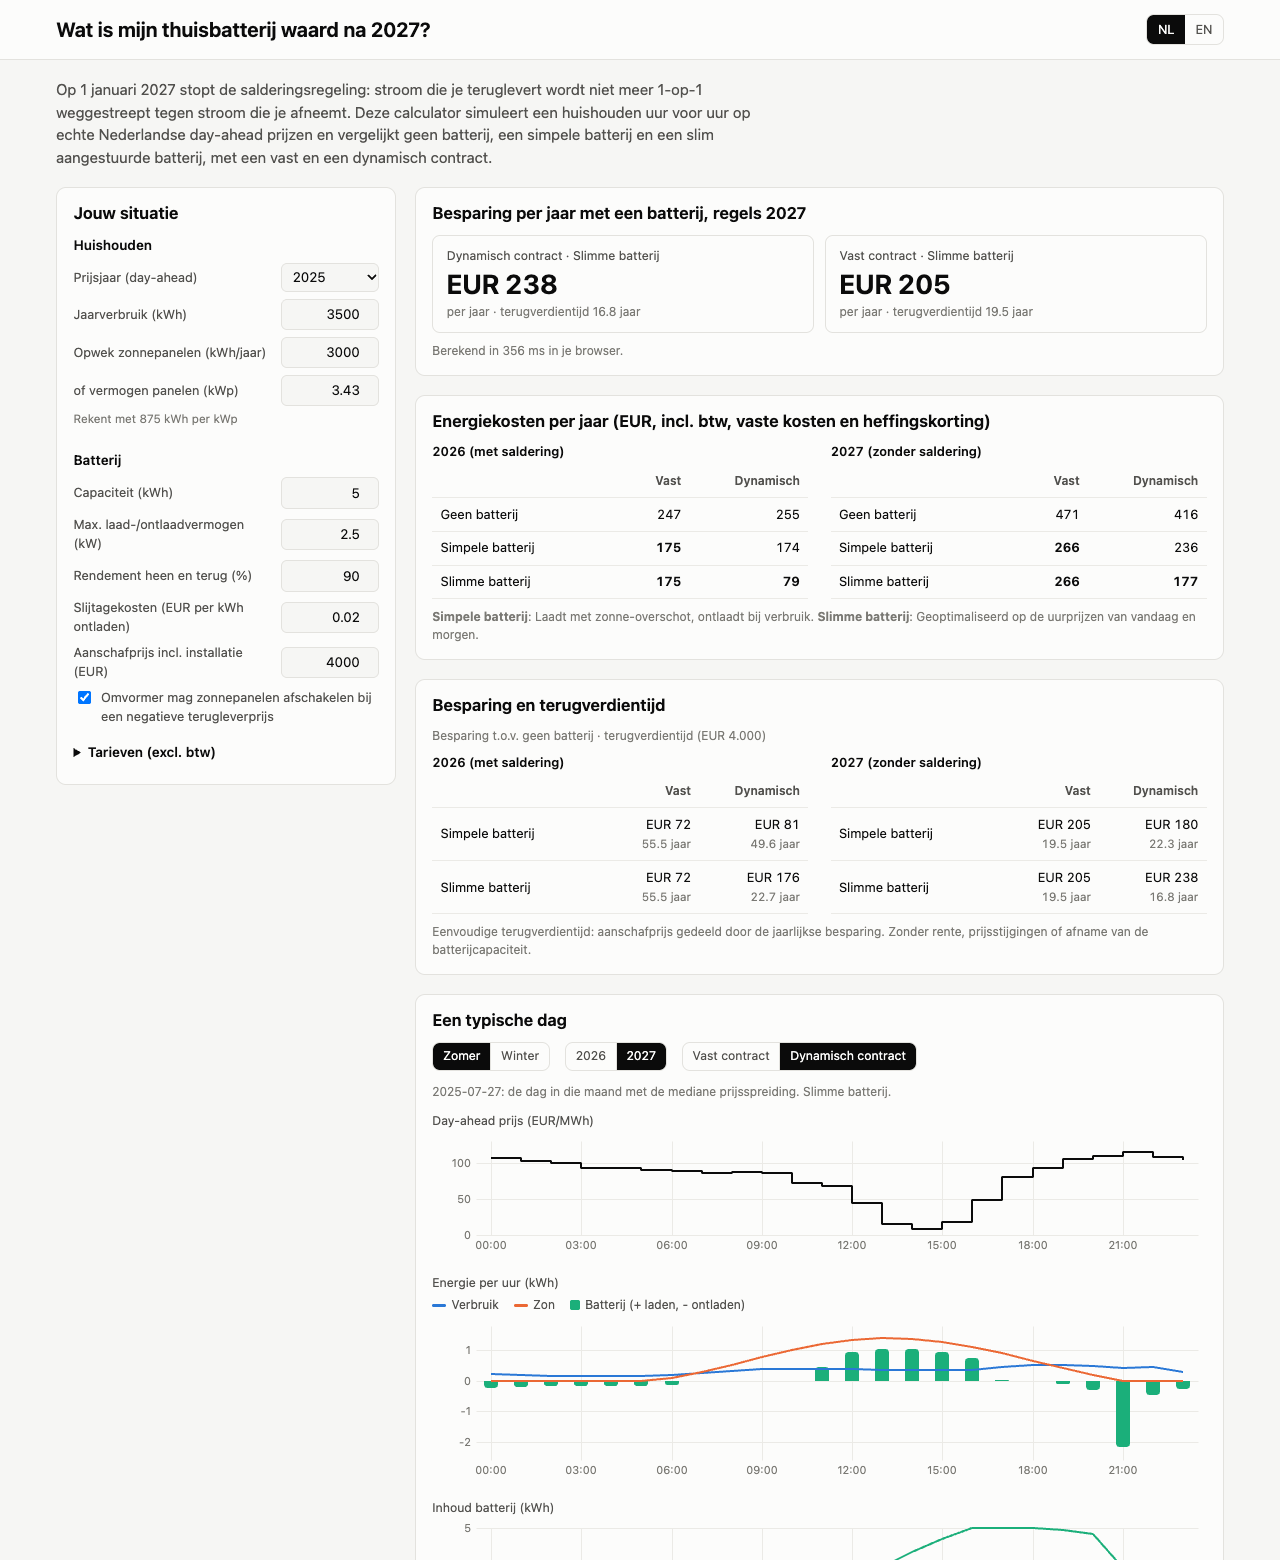
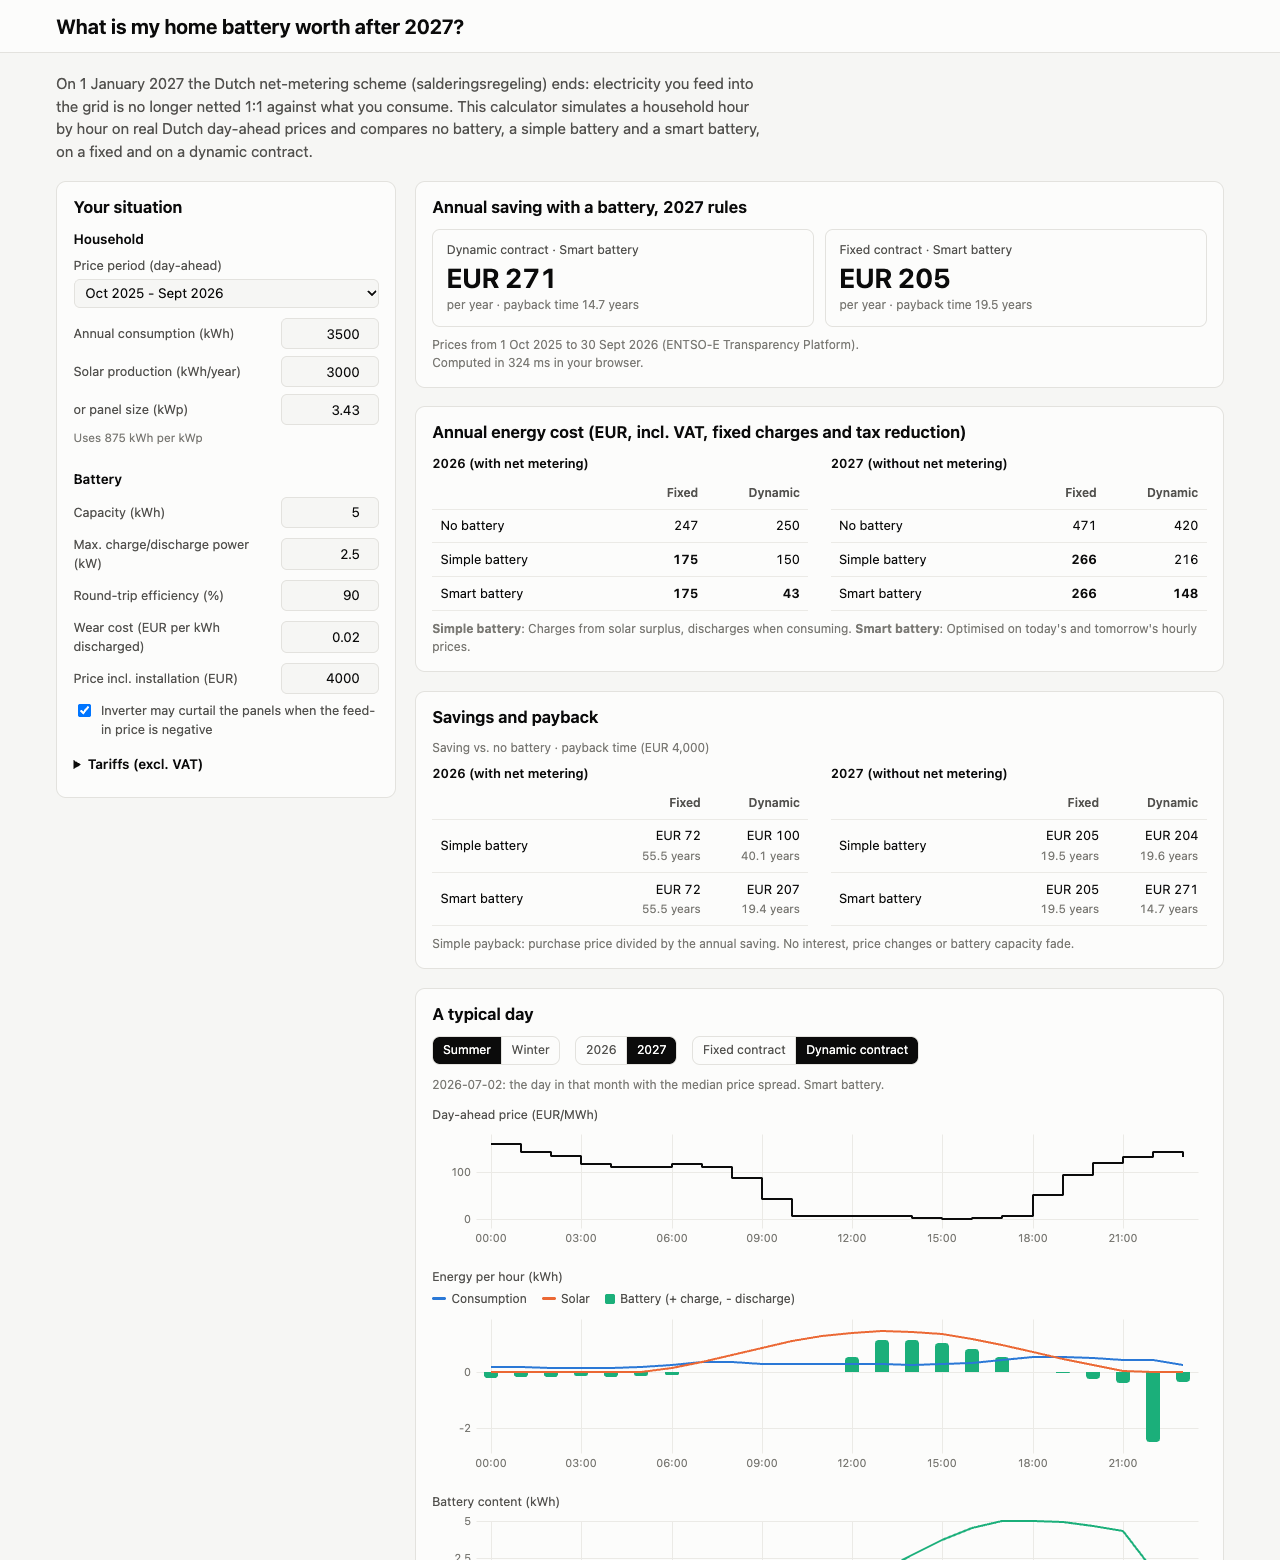
README: ENTSO-E as data source, window options, updated validation table

diff --git a/README.md b/README.md
@@ -11,7 +11,8 @@ return.
 That makes self-consumption worth a lot more, and is why many households are
 asking whether a home battery, a dynamic (hourly-price) contract, or both,
 pay off. This tool answers that with a transparent hour-by-hour simulation on
-real Dutch day-ahead prices.
+real Dutch day-ahead prices from the
+[ENTSO-E Transparency Platform](https://transparency.entsoe.eu).
 
 **Live site:** https://tejan4422.github.io/nl-battery-2027/
 
@@ -19,8 +20,9 @@ real Dutch day-ahead prices.
 
 ## What it does
 
-For one household and one year of hourly prices it computes the annual
-electricity cost for:
+For one household and twelve months of hourly prices (by default the most
+recent 12 complete months, currently 1 October 2025 to 30 September 2026) it
+computes the annual electricity cost for:
 
 | | 2026 rules (net metering) | 2027 rules (no net metering) |
 |---|---|---|
@@ -55,13 +57,19 @@ and Node.js 20 or newer.
 
 ### 1. Price data
 
-**Ember (default).** Download the European wholesale electricity price data
-from <https://ember-energy.org/data/european-wholesale-electricity-price-data>,
-take the file for the Netherlands and save it as
-`data/raw/ember_nl_hourly.csv`. Raw data is not committed.
+Day-ahead prices come from the **ENTSO-E Transparency Platform** (bidding zone
+BZN|NL). Raw files are not committed; the processed hourly series used by the
+site is in `web/public/data/`.
 
-**ENTSO-E (optional).** Useful for the most recent days, or to get native
-15-minute prices.
+**ENTSO-E CSV export (default).** On <https://transparency.entsoe.eu> open
+*Market > Energy Prices*, select bidding zone *BZN|NL*, a year, and export
+as CSV. Save one file per year as
+`data/raw/entsoe_nl_dayahead_prices_<year>.csv`. The export uses local time
+(CET/CEST), labels the DST changes, and has 15-minute rows: before
+1 October 2025 the market cleared hourly and each hourly price is repeated four
+times.
+
+**ENTSO-E API (optional).** For scripted downloads:
 
 1. Register at <https://transparency.entsoe.eu>.
 2. Email transparency@entsoe.eu with the subject "Restful API access" and the
@@ -70,32 +78,49 @@ take the file for the Netherlands and save it as
    Settings*.
 4. `cp .env.example .env` and put the token in `ENTSOE_API_KEY`. `.env` is in
    `.gitignore`; never commit the token.
-5. `uv sync --extra entsoe`
+5. `uv sync --extra entsoe`, then use `--source entsoe-api` below.
+
+**Ember (optional).** Ember's hourly European wholesale price CSV
+(<https://ember-energy.org/data/european-wholesale-electricity-price-data>),
+saved as `data/raw/ember_nl_hourly.csv`, is used for 2024. For the period where
+both are available, Ember's hourly values match the ENTSO-E hourly averages to
+within 0.005 EUR/MWh.
 
 ### 2. Pipeline
 
 ```bash
 uv sync
-uv run python -m pipeline.export --year 2024 2025          # prices -> web/public/data/
-uv run python -m pipeline.export --year 2025 --source entsoe
-uv run python -m pipeline.profiles --year 2024 2025         # load and solar profiles
+uv run python -m pipeline.export                            # last 12 complete months, site default
+uv run python -m pipeline.export --window 2025              # a calendar year
+uv run python -m pipeline.export --start 2025-04-01 --end 2026-03-31
+uv run python -m pipeline.export --source ember --window 2024
 uv run python -m pipeline.export_tariffs                    # YAML -> web/public/data/tariffs.json
 ```
 
-The price step converts 15-minute data to hourly averages, cuts out the local
-(Europe/Amsterdam) calendar year in UTC, checks for duplicates, gaps and
-implausible values, and prints a report:
+For each window the export:
+
+- combines the yearly CSVs into one series and keeps the quarter-hour data in
+  `data/processed/prices_nl_15min.csv`, plus hourly averages in
+  `prices_nl_hourly.csv` (both not committed)
+- resolves DST from the (CET)/(CEST) labels, with row order as a fallback for
+  the repeated October hour
+- averages to hourly, cuts out the window in local time, checks for
+  duplicates, gaps and implausible values, and prints a report
+- writes `prices_nl_<window>.json` and the matching
+  `profiles_nl_<window>.json`, and adds the window to `index.json`, which the
+  site's price-period menu reads
 
 ```
-year 2025: 8760 hours
-  price EUR/MWh: mean 86.81, min -350.00, max 523.47, p05 -0.51, p95 156.00
-  negative-price hours: 584 (6.7%)
-  DST days: 23h ['2025-03-30'], 25h ['2025-10-26']
+window 2025-10-01_2026-09-30: 8760 hours
+  price EUR/MWh: mean 103.03, min -498.44, max 799.36, p05 0.00, p95 192.59
+  negative-price hours: 436 (5.0%)
+  DST days: 23h ['2026-03-29'], 25h ['2025-10-26']
 ```
 
-Gaps of up to 3 hours are interpolated and listed as a warning (Ember's 2026
-file has two such gaps at month boundaries). Longer gaps stop the pipeline.
-Negative prices are valid and kept.
+Empty and `n/e` prices are treated as missing. Gaps of up to 3 hours are
+interpolated and listed as a warning; longer gaps stop the pipeline.
+Negative prices are valid and kept. The simulation itself is hourly; the
+quarter-hour series is stored so a 15-minute simulation can be added later.
 
 ### 3. Tests
 
@@ -105,7 +130,7 @@ cd web && npm ci && npm test      # TypeScript: tariffs, invariants, DP vs MILP
 ```
 
 To regenerate the shared fixtures after an intended model change:
-`uv run python -m model.fixtures --year` (about a minute).
+`uv run python -m model.fixtures --full` (about a minute).
 
 ### 4. Site
 
@@ -199,19 +224,20 @@ The two implementations share their inputs through JSON fixtures in
 baselines (no battery, simple battery) to 1e-6 EUR and get within 1% of the
 MILP's annual energy cost with the DP.
 
-Results on 2025 prices, 3,500 kWh consumption, 3,000 kWh solar, curtailment on,
-wear cost 0.02 EUR/kWh (annual totals in EUR incl. fixed charges):
+Results on prices from 1 October 2025 to 30 September 2026, 3,500 kWh
+consumption, 3,000 kWh solar, curtailment on, wear cost 0.02 EUR/kWh (annual
+totals in EUR incl. fixed charges):
 
 | battery | contract | rules | no battery | MILP | DP | DP - MILP | % of energy cost | DP time |
 |---|---|---|---|---|---|---|---|---|
-| 5 kWh / 2.5 kW | fixed | 2026 | 247.09 | 174.96 | 174.96 | 0.00 | 0.00% | 69 ms |
-| 5 kWh / 2.5 kW | fixed | 2027 | 470.50 | 265.61 | 265.61 | 0.00 | 0.00% | 67 ms |
-| 5 kWh / 2.5 kW | dynamic | 2026 | 254.98 | 78.63 | 78.81 | 0.18 | 0.05% | 67 ms |
-| 5 kWh / 2.5 kW | dynamic | 2027 | 415.63 | 176.77 | 177.29 | 0.52 | 0.10% | 69 ms |
-| 10 kWh / 5 kW | fixed | 2026 | 247.09 | 174.51 | 174.51 | 0.00 | 0.00% | 216 ms |
-| 10 kWh / 5 kW | fixed | 2027 | 470.50 | 264.35 | 264.35 | 0.00 | 0.00% | 218 ms |
-| 10 kWh / 5 kW | dynamic | 2026 | 254.98 | -44.50 | -44.25 | 0.25 | 0.07% | 212 ms |
-| 10 kWh / 5 kW | dynamic | 2027 | 415.63 | 129.23 | 129.40 | 0.17 | 0.03% | 219 ms |
+| 5 kWh / 2.5 kW | fixed | 2026 | 247.10 | 175.05 | 175.05 | 0.00 | 0.00% | 68 ms |
+| 5 kWh / 2.5 kW | fixed | 2027 | 470.53 | 265.67 | 265.67 | 0.00 | 0.00% | 68 ms |
+| 5 kWh / 2.5 kW | dynamic | 2026 | 249.52 | 42.83 | 43.00 | 0.17 | 0.05% | 67 ms |
+| 5 kWh / 2.5 kW | dynamic | 2027 | 419.64 | 147.89 | 148.45 | 0.57 | 0.11% | 68 ms |
+| 10 kWh / 5 kW | fixed | 2026 | 247.10 | 174.61 | 174.61 | 0.00 | 0.00% | 214 ms |
+| 10 kWh / 5 kW | fixed | 2027 | 470.53 | 264.43 | 264.43 | 0.00 | 0.00% | 215 ms |
+| 10 kWh / 5 kW | dynamic | 2026 | 249.52 | -113.12 | -112.92 | 0.20 | 0.06% | 215 ms |
+| 10 kWh / 5 kW | dynamic | 2027 | 419.64 | 84.65 | 84.95 | 0.30 | 0.06% | 209 ms |
 
 The DP is never better than the MILP, as expected for a discretised method,
 and the largest gap is 0.2% of the battery's saving. The full set of 12
@@ -222,6 +248,8 @@ Other checks, in both languages where it applies:
 - tariff formulas against hand-computed cases, and marginal prices against
   finite differences of the annual bill
 - 23- and 25-hour days, 15-minute input, negative prices, gaps, duplicates
+- ENTSO-E exports: DST labels (and their absence), `n/e` rows, overlapping
+  files that must agree, choosing the last 12 complete months
 - energy balance every hour, state of charge within bounds, power limits, no
   simultaneous charge/discharge
 - the optimiser is never worse than no battery or the simple rule
@@ -241,7 +269,7 @@ simulation did not reproduce. Both are fixed.
 - The consumption profile is synthetic and the same every year.
 - The smart battery has perfect foresight of prices, consumption and solar
   for today and tomorrow. Real controllers will do somewhat worse.
-- Historical prices (default 2025) are used for 2026 and 2027. Future prices
+- Historical prices (by default the last 12 complete months) stand in for 2026 and 2027. Future prices
   will differ, and more batteries on the grid will reduce price spreads.
 - The 2026 dynamic-contract result depends on whether feed-in is credited
   including VAT under net metering (`feed_in_vat_while_netting`). This is
@@ -287,12 +315,12 @@ Other open items:
 
 ## Data sources and licence
 
-- Wholesale prices: [Ember](https://ember-energy.org/data/european-wholesale-electricity-price-data),
+- Day-ahead prices: [ENTSO-E Transparency Platform](https://transparency.entsoe.eu),
+  bidding zone BZN|NL, used under the ENTSO-E terms and conditions. The
+  processed hourly series in `web/public/data/` is derived from it.
+- 2024 prices: [Ember](https://ember-energy.org/data/european-wholesale-electricity-price-data),
   European Wholesale Electricity Price Data, licensed under
-  [CC BY 4.0](https://creativecommons.org/licenses/by/4.0/). The processed
-  hourly series in `web/public/data/` is derived from it.
-- Optional: [ENTSO-E Transparency Platform](https://transparency.entsoe.eu),
-  day-ahead prices, used under the ENTSO-E terms and conditions.
+  [CC BY 4.0](https://creativecommons.org/licenses/by/4.0/).
 - Tariff values: sources are listed per value in `config/tariffs_nl.yaml`.
 
 Code: [MIT licence](LICENSE).
